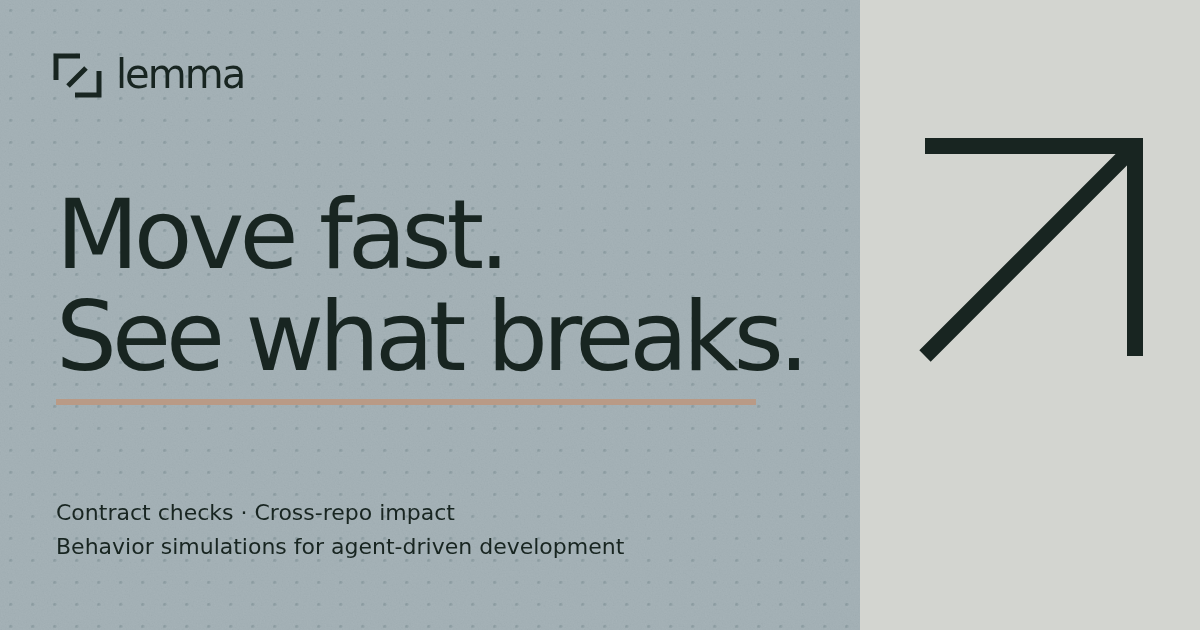
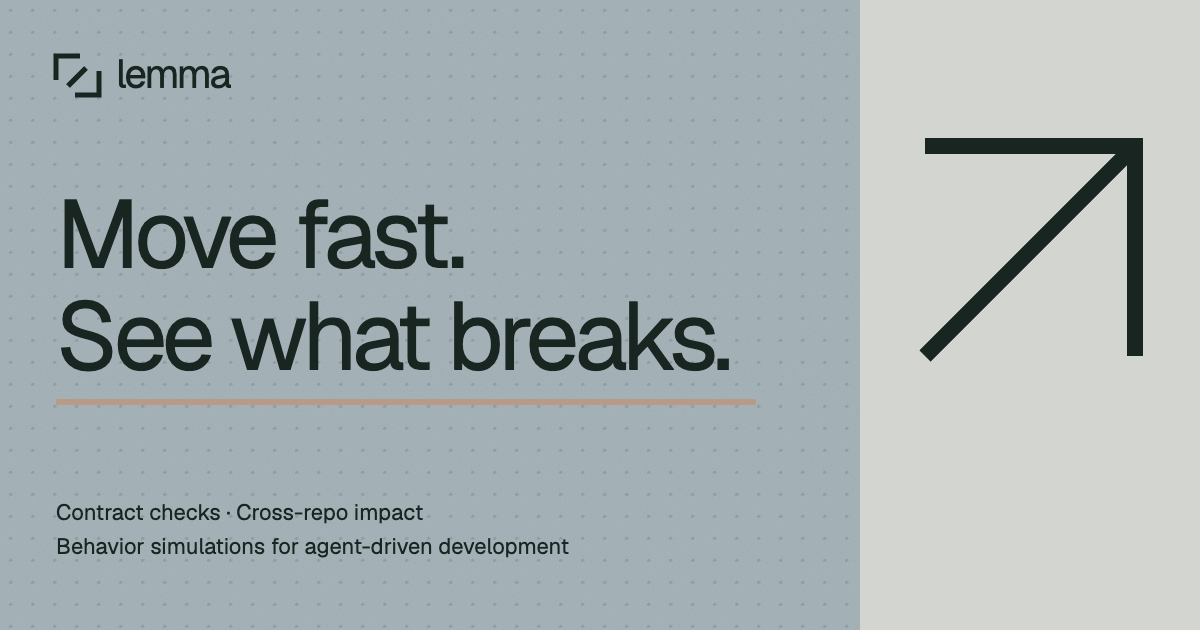
fix(marketing): give link previews absolute urls and a geist card
Crawlers do not resolve a relative og:image, so shared links showed no
picture. Docs pages had no social tags at all, and the card had been
rendered in a fallback font. The description now matches the hero.

diff --git a/website/src/index.html b/website/src/index.html
@@ -3,8 +3,11 @@
 <head>
   <meta charset="utf-8"><meta name="viewport" content="width=device-width,initial-scale=1"><meta name="theme-color" content="#F3F3EE">
   <title>Lemma — Move fast. See what breaks.</title>
-  <meta name="description" content="Contract checks, cross-repo impact analysis, and behavior simulations for agent-driven software development.">
-  <meta property="og:type" content="website"><meta property="og:title" content="Lemma — Move fast. See what breaks."><meta property="og:description" content="Give coding agents the system model, impact analysis, and executable evidence to move with speed and precision."><meta property="og:image" content="assets/social-card.png"><meta name="twitter:card" content="summary_large_image">
+  <meta name="description" content="Contract checks, cross-repo impact analysis, and behavior simulations for agents building connected systems.">
+  <link rel="canonical" href="https://lemma.systems/">
+  <meta property="og:type" content="website"><meta property="og:site_name" content="Lemma"><meta property="og:url" content="https://lemma.systems/"><meta property="og:title" content="Lemma — Move fast. See what breaks."><meta property="og:description" content="Contract checks, cross-repo impact analysis, and behavior simulations for agents building connected systems.">
+  <meta property="og:image" content="https://lemma.systems/assets/social-card.png"><meta property="og:image:type" content="image/png"><meta property="og:image:width" content="1200"><meta property="og:image:height" content="630"><meta property="og:image:alt" content="Lemma. Move fast. See what breaks.">
+  <meta name="twitter:card" content="summary_large_image"><meta name="twitter:title" content="Lemma — Move fast. See what breaks."><meta name="twitter:description" content="Contract checks, cross-repo impact analysis, and behavior simulations for agents building connected systems."><meta name="twitter:image" content="https://lemma.systems/assets/social-card.png"><meta name="twitter:image:alt" content="Lemma. Move fast. See what breaks.">
   <link rel="icon" href="design-system/assets/mark.svg" type="image/svg+xml">
   <link rel="stylesheet" href="design-system/tokens.css"><link rel="stylesheet" href="design-system/components.css"><link rel="stylesheet" href="styles.css"><script src="app.js" defer></script><script type="module" src="diagrams-webgl.js"></script>
 </head>

diff --git a/website/scripts/build_landing_art.py b/website/scripts/build_landing_art.py
@@ -61,7 +61,7 @@ def build() -> None:
 
     texture = (ROOT / 'design-system/assets/matte-metal.svg').read_text()
     texture_body = texture.split('>', 1)[1].rsplit('</svg>', 1)[0]
-    social = f'''<svg xmlns="http://www.w3.org/2000/svg" width="1200" height="630" viewBox="0 0 1200 630" role="img" aria-label="Lemma. Move fast. See what breaks. Contract checks, impact analysis, and behavior simulations."><defs><pattern id="social-metal" width="352" height="352" patternUnits="userSpaceOnUse">{texture_body}</pattern></defs><rect width="1200" height="630" fill="#A3B0B5"/><rect width="1200" height="630" fill="url(#social-metal)" style="mix-blend-mode:soft-light"/><rect x="860" width="340" height="630" fill="#D3D5D0"/><path d="M56 80V56h24M75 95h24V71M68 86l18-18" fill="none" stroke="#182521" stroke-width="5"/><g fill="#182521" font-family="Geist,Arial,Helvetica,sans-serif"><text x="116" y="88" font-size="40" letter-spacing="-2">lemma</text><text x="56" y="268" font-size="96" letter-spacing="-5">Move fast.</text><text x="56" y="370" font-size="96" letter-spacing="-5">See what breaks.</text><text x="56" y="520" font-size="22">Contract checks · Cross-repo impact</text><text x="56" y="554" font-size="22">Behavior simulations for agent-driven development</text></g><path d="m925 356 210-210M925 146h210v210" fill="none" stroke="#182521" stroke-width="16"/><path d="M56 402h700" stroke="#B99A86" stroke-width="6"/></svg>'''
+    social = f'''<svg xmlns="http://www.w3.org/2000/svg" width="1200" height="630" viewBox="0 0 1200 630" role="img" aria-label="Lemma. Move fast. See what breaks. Contract checks, impact analysis, and behavior simulations."><style>@font-face{{font-family:Geist;src:url(fonts/Geist-Variable.woff2) format("woff2");font-weight:100 900}}</style><defs><pattern id="social-metal" width="352" height="352" patternUnits="userSpaceOnUse">{texture_body}</pattern></defs><rect width="1200" height="630" fill="#A3B0B5"/><rect width="1200" height="630" fill="url(#social-metal)" style="mix-blend-mode:soft-light"/><rect x="860" width="340" height="630" fill="#D3D5D0"/><path d="M56 80V56h24M75 95h24V71M68 86l18-18" fill="none" stroke="#182521" stroke-width="5"/><g fill="#182521" font-family="Geist,Arial,Helvetica,sans-serif"><text x="116" y="88" font-size="40" letter-spacing="-2">lemma</text><text x="56" y="268" font-size="96" letter-spacing="-5">Move fast.</text><text x="56" y="370" font-size="96" letter-spacing="-5">See what breaks.</text><text x="56" y="520" font-size="22">Contract checks · Cross-repo impact</text><text x="56" y="554" font-size="22">Behavior simulations for agent-driven development</text></g><path d="m925 356 210-210M925 146h210v210" fill="none" stroke="#182521" stroke-width="16"/><path d="M56 402h700" stroke="#B99A86" stroke-width="6"/></svg>'''
     colors = json.loads((ROOT / 'design-system/tokens.json').read_text())['color']
     for original, name in {'#A3B0B5':'steel', '#D3D5D0':'silver', '#182521':'ink', '#B99A86':'copper'}.items():
         social = social.replace(original, colors[name])
